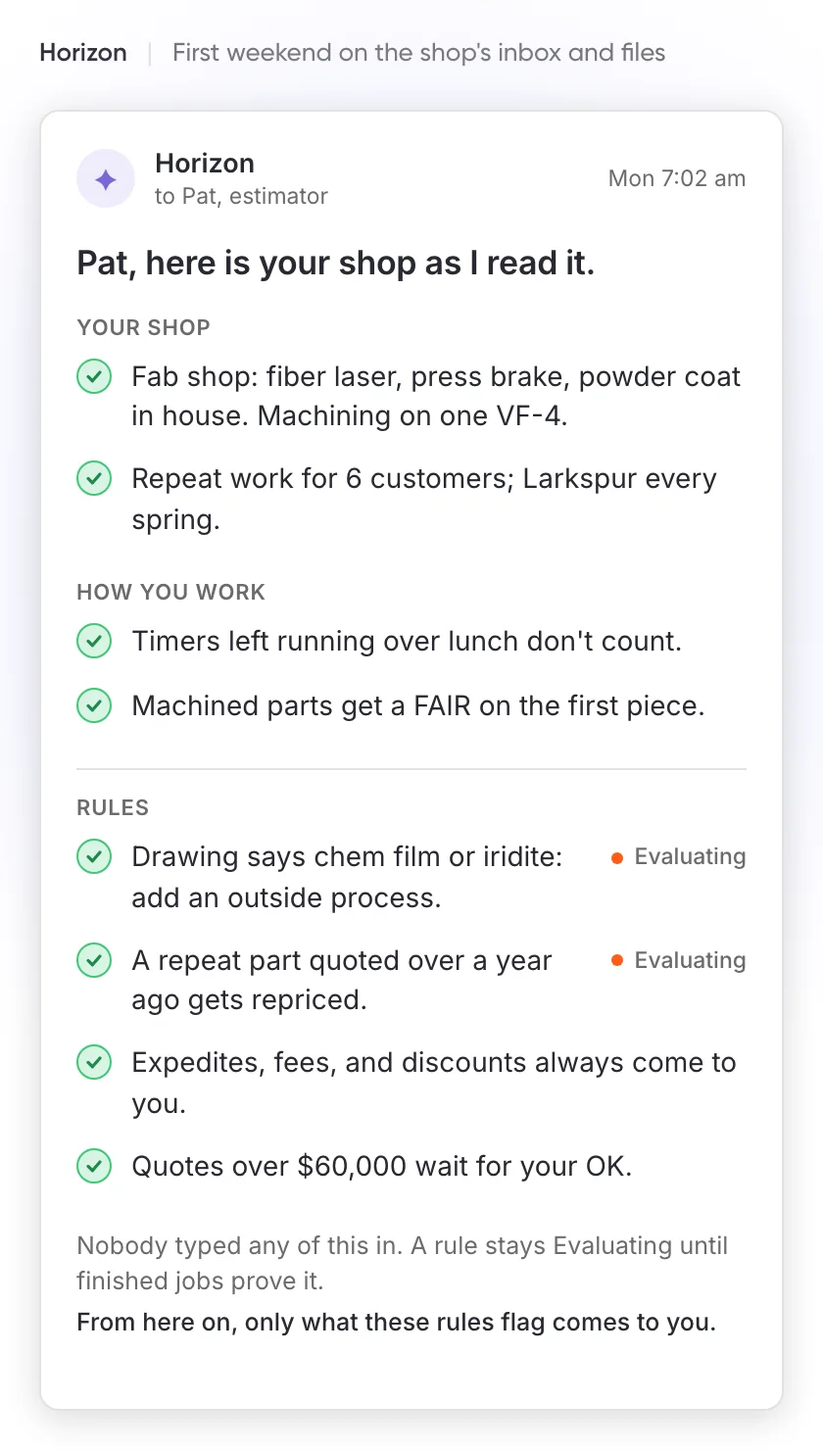
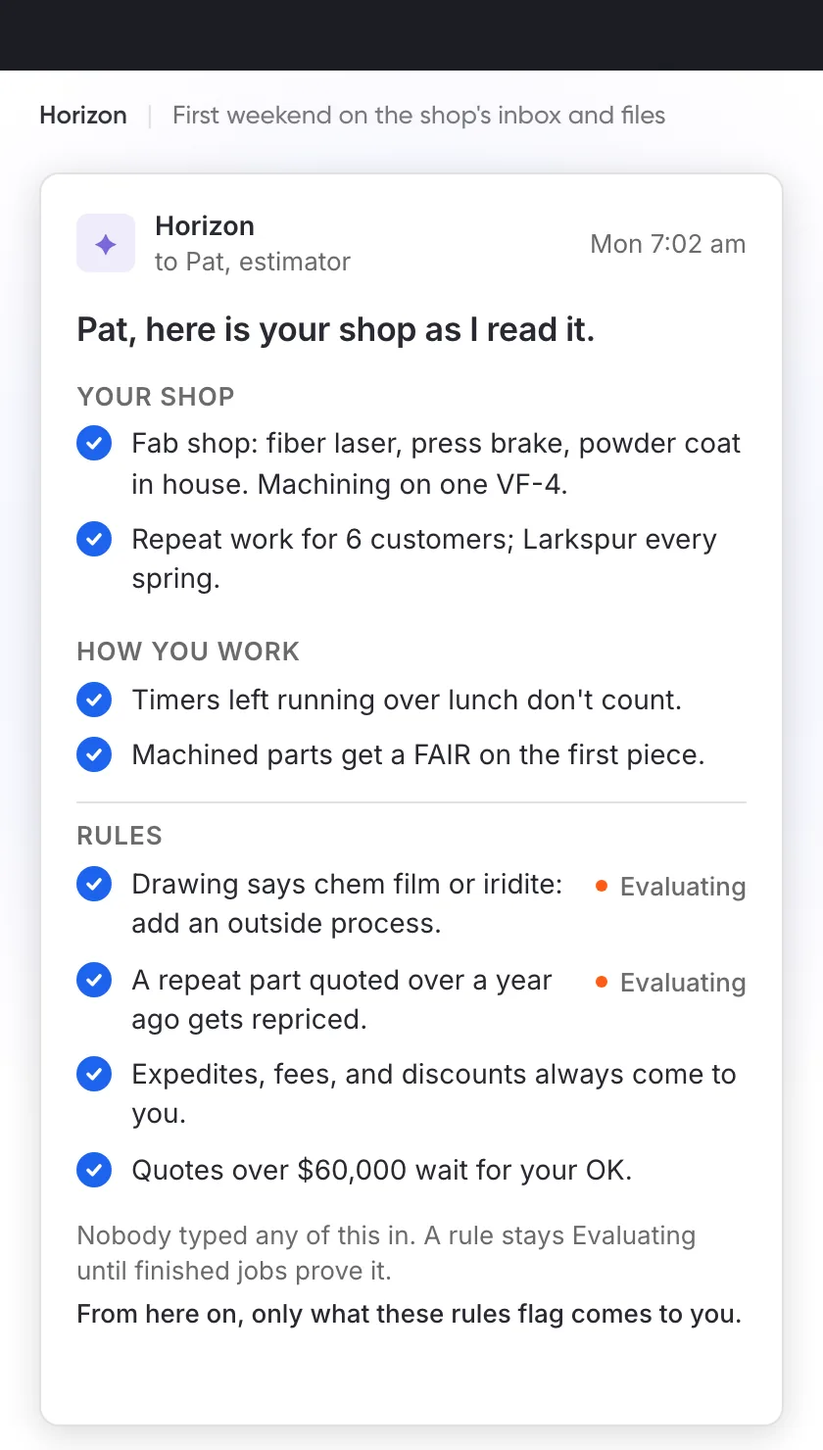
horizon loops: design-director pass (Nov 10)
- hero: Outlook beat about 1.3 s, 300 ms crossfade into Horizon, the email card flies to the toast slot (bottom right), timeline 3.2 s shorter (loop 37.8 s)
- all three: avatars are 6 px rounded squares (ink grey, white initials); phone type floor of 13 px (15 px stage-px on frames under 420 px)
- overnight: same dark title bar as the hero and thread windows; checks are filled interaction-blue circles with a white check; posters re-rendered

diff --git a/horizon/hero-email-lands/index.html b/horizon/hero-email-lands/index.html
@@ -10,6 +10,7 @@
         Horizon's post with the drafted email "Quote 2207: LA-400 lift arm parts", Quote-2207.pdf, Send (blue) + Not Now.
         Stage header "Quote · $59,241.00 · Quote 2207 · not sent", header pill "Ready". Hold 3s.
    3.0  reset: Horizon drops back; Outlook (quotes@haldenmetal.com) comes forward with this morning's mail. Nobody is in it.
+        (Nov 10: the Outlook beat runs about 1.3 s; windows crossfade in 300 ms; the email card flies to the toast slot, bottom right.)
    4.0  Tessa Brandvold's email lands at the top of the Outlook list: "Request for quote - LA-400 lift arm parts", 8:12 AM,
         attachments (26-1187_parts.xlsx, LI-2140_REV-B.pdf and drawings).
    4.8  Horizon reads it: a sweep crosses the row twice and the category tag lands as "Horizon · reading" (pulsing dot).
@@ -73,7 +74,7 @@
 .hz-hero-email-lands .h-win { position: absolute; left: 0; top: 0; width: 1200px; height: 750px; background: #131418;
      overflow: hidden;
   display: flex; flex-direction: column; z-index: 2; transform-origin: 50% 60%;
-  transition: opacity .6s cubic-bezier(.2,.7,.2,1), transform .7s cubic-bezier(.2,.7,.2,1); }
+  transition: opacity .3s cubic-bezier(.2,.7,.2,1), transform .3s cubic-bezier(.2,.7,.2,1); }
 .hz-hero-email-lands .h-win.is-back { opacity: 0; transform: translateY(22px) scale(.965); z-index: 1; }
 .hz-hero-email-lands .h-title { flex: 0 0 36px; position: relative; display: flex; align-items: center; justify-content: center;
   background: #1b1d23; border-bottom: 1px solid #2b2d33; font-size: 12.5px; color: #a9abae; font-weight: 400; }
@@ -86,7 +87,7 @@
   border: 1px solid #d6d6d6;   overflow: hidden;
   display: flex; flex-direction: column; z-index: 3; opacity: 0; transform: translateY(16px) scale(.97); transform-origin: 50% 50%;
   font-family: 'Segoe UI', 'Inter', -apple-system, BlinkMacSystemFont, sans-serif; color: #242424;
-  transition: opacity .6s cubic-bezier(.2,.7,.2,1), transform .75s cubic-bezier(.2,.7,.2,1); }
+  transition: opacity .3s cubic-bezier(.2,.7,.2,1), transform .3s cubic-bezier(.2,.7,.2,1); }
 .hz-hero-email-lands .o-win.is-on { opacity: 1; transform: none; }
 .hz-hero-email-lands .o-win.is-away { opacity: 0; transform: translate(-90px, 70px) scale(.86); z-index: 1; }
 .hz-hero-email-lands .o-top { flex: 0 0 48px; display: flex; align-items: center; gap: 14px; padding: 0 16px; background: #0f6cbd; color: #fff; }
@@ -256,9 +257,9 @@
 .hz-hero-email-lands .hzk-side h2 { margin: 0 0 4px; font-size: 19px; font-weight: 500; color: var(--fg-strong); }
 .hz-hero-email-lands .hzk-side .day { font-size: 14px; font-weight: 600; color: var(--fg); margin-top: 8px; }
 .hz-hero-email-lands .hzk-act { display: grid; grid-template-columns: 28px minmax(0,1fr) auto; gap: 10px; align-items: center; }
-.hz-hero-email-lands .hzk-act .av { width: 28px; height: 28px; border-radius: 50%; display: grid; place-items: center; font-size: 11px; font-weight: 600; background: #323335; color: #a9abae; }
+.hz-hero-email-lands .hzk-act .av { width: 28px; height: 28px; border-radius: 6px; display: grid; place-items: center; font-size: 11px; font-weight: 600; background: #2a2d36; color: #fff; }
 .hz-hero-email-lands .hzk-act .av.spark { background: var(--spark-bg); color: var(--spark-fg); font-size: 12px; }
-.hz-hero-email-lands .hzk-act .av.me { background: #3b3f1f; color: #c7c98a; }
+.hz-hero-email-lands .hzk-act .av.me { background: #2a2d36; color: #fff; }
 .hz-hero-email-lands .hzk-act b { display: block; font-size: 14px; font-weight: 500; color: var(--fg); }
 .hz-hero-email-lands .hzk-act span { display: block; font-size: 12.5px; color: var(--mute); }
 .hz-hero-email-lands .hzk-act small { font-size: 12px; color: var(--mute3); white-space: nowrap; }
@@ -282,7 +283,7 @@
 .hz-hero-email-lands .hzk-detail span { color: var(--mute); }
 .hz-hero-email-lands .hzk-detail b { font-weight: 500; color: var(--fg); text-align: right; white-space: nowrap; overflow: hidden; text-overflow: ellipsis; }
 .hz-hero-email-lands .hzk-run { display: grid; grid-template-columns: 28px minmax(0,1fr); gap: 10px; }
-.hz-hero-email-lands .hzk-run .av { width: 28px; height: 28px; border-radius: 50%; display: grid; place-items: center; font-size: 12px; background: var(--spark-bg); color: var(--spark-fg); }
+.hz-hero-email-lands .hzk-run .av { width: 28px; height: 28px; border-radius: 6px; display: grid; place-items: center; font-size: 12px; background: var(--spark-bg); color: var(--spark-fg); }
 .hz-hero-email-lands .hzk-run .av.is-live { animation: hzk-pulse 1.2s ease-in-out infinite; }
 .hz-hero-email-lands .hzk-run .tick { font-size: 14px; color: var(--fg); min-height: 20px; }
 .hz-hero-email-lands .hzk-run .tick small { display: block; font-size: 11.5px; color: var(--mute3); margin-top: 2px; }
@@ -290,7 +291,7 @@
 .hz-hero-email-lands .hzk-run .fold small { display: block; font-size: 12px; font-weight: 300; color: var(--mute); margin-top: 2px; }
 .hz-hero-email-lands .hzk-run .fold small a { color: var(--link); }
 .hz-hero-email-lands .hzk-post { display: grid; grid-template-columns: 28px minmax(0,1fr); gap: 10px; }
-.hz-hero-email-lands .hzk-post .av { width: 28px; height: 28px; border-radius: 50%; display: grid; place-items: center; font-size: 12px; background: var(--spark-bg); color: var(--spark-fg); }
+.hz-hero-email-lands .hzk-post .av { width: 28px; height: 28px; border-radius: 6px; display: grid; place-items: center; font-size: 12px; background: var(--spark-bg); color: var(--spark-fg); }
 .hz-hero-email-lands .hzk-post .box { border: 1px solid var(--line2); border-radius: 8px; background: var(--card); padding: 12px 14px; display: flex; flex-direction: column; gap: 8px; }
 .hz-hero-email-lands .hzk-post .box .hd { display: flex; align-items: baseline; gap: 8px; font-size: 12.5px; color: var(--mute2); }
 .hz-hero-email-lands .hzk-post .box .hd b { font-size: 14px; font-weight: 500; color: var(--fg-strong); }
@@ -301,7 +302,7 @@
 .hz-hero-email-lands .hzk-btn.primary { background: var(--send); border-color: var(--send); color: #fff; }
 .hz-hero-email-lands .hzk-thread { display: flex; flex-direction: column; gap: 14px; }
 .hz-hero-email-lands .hzk-mail { display: grid; grid-template-columns: 28px minmax(0,1fr); gap: 10px; }
-.hz-hero-email-lands .hzk-mail .av { width: 28px; height: 28px; border-radius: 50%; display: grid; place-items: center; font-size: 11px; font-weight: 600; background: #323335; color: #a9abae; }
+.hz-hero-email-lands .hzk-mail .av { width: 28px; height: 28px; border-radius: 6px; display: grid; place-items: center; font-size: 11px; font-weight: 600; background: #2a2d36; color: #fff; }
 .hz-hero-email-lands .hzk-mail .hd { display: flex; gap: 8px; align-items: baseline; font-size: 12.5px; color: var(--mute2); }
 .hz-hero-email-lands .hzk-mail .hd b { color: var(--fg-strong); font-weight: 500; font-size: 13.5px; }
 .hz-hero-email-lands .hzk-mail .hd small { margin-left: auto; font-size: 11.5px; color: var(--mute3); white-space: nowrap; }
@@ -359,7 +360,7 @@
 .hz-hero-email-lands .hz-sect { padding: 4px 16px 12px; display: flex; flex-direction: column; gap: 10px; border-top: 1px solid var(--line); margin-top: 4px; }
 .hz-hero-email-lands .hz-sect h4 { margin: 10px 0 0; font-size: 12px; font-weight: 500; color: var(--mute2); }
 .hz-hero-email-lands .hz-contact { display: grid; grid-template-columns: 28px minmax(0,1fr); gap: 10px; align-items: center; }
-.hz-hero-email-lands .hz-contact .av { width: 28px; height: 28px; border-radius: 50%; display: grid; place-items: center; font-size: 11px; font-weight: 600; background: #2b3a3b; color: #7fc6cb; }
+.hz-hero-email-lands .hz-contact .av { width: 28px; height: 28px; border-radius: 6px; display: grid; place-items: center; font-size: 11px; font-weight: 600; background: #2a2d36; color: #fff; }
 .hz-hero-email-lands .hz-contact b { display: block; font-size: 13.5px; font-weight: 500; color: var(--fg); }
 .hz-hero-email-lands .hz-contact span { display: block; font-size: 12px; color: var(--mute); }
 /* thread viewport: only the content scrolls, via transform */
@@ -478,6 +479,18 @@
 .hz-hero-email-lands.is-phone .hz-phead b { font-size: 14px; white-space: nowrap; overflow: hidden; text-overflow: ellipsis; min-width: 0; }
 .hz-hero-email-lands.is-phone .hz-phead .hzk-pill { margin-left: auto; }
 .hz-hero-email-lands.is-phone .hz-tin { padding: 14px 14px 16px; }
+
+/* phone type floor (Nov 10): nothing under 13px; on frames narrower than 420px the stage renders at about .81, so the floor is 15px stage-px */
+.hz-hero-email-lands.is-phone .o-navh, .hz-hero-email-lands.is-phone .o-navi b, .hz-hero-email-lands.is-phone .o-day, .hz-hero-email-lands.is-phone .o-fly .o-fly-f span, .hz-hero-email-lands.is-phone .hz-toast, .hz-hero-email-lands.is-phone .hz-toast small,
+.hz-hero-email-lands.is-phone .hzk-app .hzk-rail-item, .hz-hero-email-lands.is-phone .hzk-nav .usd, .hz-hero-email-lands.is-phone .hzk-pill, .hz-hero-email-lands.is-phone .hzk-tag, .hz-hero-email-lands.is-phone .hzk-act .av, .hz-hero-email-lands.is-phone .hzk-act span, .hz-hero-email-lands.is-phone .hzk-act small,
+.hz-hero-email-lands.is-phone .hzk-tiles span, .hz-hero-email-lands.is-phone .hzk-stagehead .k a, .hz-hero-email-lands.is-phone .hzk-stagehead .sub, .hz-hero-email-lands.is-phone .hzk-run .tick small, .hz-hero-email-lands.is-phone .hzk-run .fold small,
+.hz-hero-email-lands.is-phone .hzk-post .box .hd, .hz-hero-email-lands.is-phone .hzk-post .box .hd small, .hz-hero-email-lands.is-phone .hzk-mail .av, .hz-hero-email-lands.is-phone .hzk-mail .hd, .hz-hero-email-lands.is-phone .hzk-mail .hd small, .hz-hero-email-lands.is-phone .hzk-mail .att small,
+.hz-hero-email-lands.is-phone .hzk-table .th small, .hz-hero-email-lands.is-phone .hzk-table .tr.head, .hz-hero-email-lands.is-phone .hz-contact .av, .hz-hero-email-lands.is-phone .hz-contact span, .hz-hero-email-lands.is-phone .hz-day, .hz-hero-email-lands.is-phone .hz-match .steps span, .hz-hero-email-lands.is-phone .h-title, .hz-hero-email-lands.is-phone .o-row { font-size: 13px; }
+.hz-hero-email-lands.is-phone.is-narrow .o-navh, .hz-hero-email-lands.is-phone.is-narrow .o-navi b, .hz-hero-email-lands.is-phone.is-narrow .o-day, .hz-hero-email-lands.is-phone.is-narrow .o-fly .o-fly-f span, .hz-hero-email-lands.is-phone.is-narrow .hz-toast, .hz-hero-email-lands.is-phone.is-narrow .hz-toast small,
+.hz-hero-email-lands.is-phone.is-narrow .hzk-app .hzk-rail-item, .hz-hero-email-lands.is-phone.is-narrow .hzk-nav .usd, .hz-hero-email-lands.is-phone.is-narrow .hzk-pill, .hz-hero-email-lands.is-phone.is-narrow .hzk-tag, .hz-hero-email-lands.is-phone.is-narrow .hzk-act .av, .hz-hero-email-lands.is-phone.is-narrow .hzk-act span, .hz-hero-email-lands.is-phone.is-narrow .hzk-act small,
+.hz-hero-email-lands.is-phone.is-narrow .hzk-tiles span, .hz-hero-email-lands.is-phone.is-narrow .hzk-stagehead .k a, .hz-hero-email-lands.is-phone.is-narrow .hzk-stagehead .sub, .hz-hero-email-lands.is-phone.is-narrow .hzk-run .tick small, .hz-hero-email-lands.is-phone.is-narrow .hzk-run .fold small,
+.hz-hero-email-lands.is-phone.is-narrow .hzk-post .box .hd, .hz-hero-email-lands.is-phone.is-narrow .hzk-post .box .hd small, .hz-hero-email-lands.is-phone.is-narrow .hzk-mail .av, .hz-hero-email-lands.is-phone.is-narrow .hzk-mail .hd, .hz-hero-email-lands.is-phone.is-narrow .hzk-mail .hd small, .hz-hero-email-lands.is-phone.is-narrow .hzk-mail .att small,
+.hz-hero-email-lands.is-phone.is-narrow .hzk-table .th small, .hz-hero-email-lands.is-phone.is-narrow .hzk-table .tr.head, .hz-hero-email-lands.is-phone.is-narrow .hz-contact .av, .hz-hero-email-lands.is-phone.is-narrow .hz-contact span, .hz-hero-email-lands.is-phone.is-narrow .hz-day, .hz-hero-email-lands.is-phone.is-narrow .hz-match .steps span, .hz-hero-email-lands.is-phone.is-narrow .h-title, .hz-hero-email-lands.is-phone.is-narrow .o-row { font-size: 15px; }
 </style>
 
 <div class="hz-hero-email-lands">
@@ -707,7 +720,7 @@ Pat</div>
 <script>
 (function () {
   'use strict';
-  var LOOP_END = 41.0;       // seconds; loop wraps to t=0 (resolved) here
+  var LOOP_END = 37.8;       // seconds; loop wraps to t=0 (resolved) here
   var TYPE_MS = 25;          // ms per character (the drafted email body, once per loop)
 
   function init(root) {
@@ -718,7 +731,7 @@ Pat</div>
     function fit() {
       var w = root.clientWidth || 1200;
       var phone = w < 600 || /[?&]phone=1/.test(location.search);
-      root.classList.toggle('is-phone', phone);
+      root.classList.toggle('is-phone', phone); root.classList.toggle('is-narrow', phone && (root.getBoundingClientRect().width || 420) < 420);
       var SW = phone ? 420 : 1200, SH = phone ? 720 : 750;
       var s = w / SW;
       root.style.setProperty('--s', String(s));
@@ -741,7 +754,8 @@ Pat</div>
     function flyFrom() {
       var phone = root.classList.contains('is-phone'); var r = onew.getBoundingClientRect(), st = stageEl.getBoundingClientRect(), k = st.width / (phone ? 420 : 1200) || 1;
       fly.style.setProperty('--fx', ((r.left - st.left) / k + 10) + 'px'); fly.style.setProperty('--fy', ((r.top - st.top) / k + 4) + 'px');
-      fly.style.setProperty('--tx', phone ? '18px' : '92px'); fly.style.setProperty('--ty', phone ? '60px' : '128px');
+      var SW = phone ? 420 : 1200, SH = phone ? 720 : 750, fw = fly.offsetWidth || 332, fh = fly.offsetHeight || 80;
+      fly.style.setProperty('--tx', (SW - 18 - fw + fw * .08) + 'px'); fly.style.setProperty('--ty', (SH - 18 - fh + fh * .08) + 'px');
       fly.style.transition = 'none'; fly.classList.remove('is-go', 'is-up'); reflow(fly); fly.style.transition = ''; fly.classList.add('is-up');
     }
     var ppill = $('[data-ppill]'), sh = $('[data-sh]'), stage = $('[data-stage]'), fig = $('[data-fig]'), sub = $('[data-sub]'), seg2 = $('[data-seg2]');
@@ -834,39 +848,39 @@ Pat</div>
         tin.style.transform = 'translateY(0)';
         hwin.classList.add('is-back'); owin.classList.remove('is-away'); owin.classList.add('is-on');
       } },
-      { t: 4.0, fn: function () { onew.classList.add('is-in'); } },                          // Tessa's email lands in Outlook
-      { t: 4.35, fn: function () { onew.classList.add('is-scan'); ocat.classList.add('is-on'); } },   // Horizon is reading it: sweep + "Horizon · reading"
-      { t: 6.5, fn: function () { ocat.classList.add('is-read'); } },                        // "Horizon · read"
-      { t: 6.9, fn: function () { if (!instant) flyFrom(); } },                              // the email lifts out of Outlook
-      { t: 7.2, fn: function () { if (!instant) fly.classList.add('is-go'); } },             // and flies into Horizon
-      { t: 7.5, fn: function () {                                                             // Horizon comes forward
+      { t: 3.25, fn: function () { onew.classList.add('is-in'); } },                          // Tessa's email lands in Outlook
+      { t: 3.45, fn: function () { onew.classList.add('is-scan'); ocat.classList.add('is-on'); } },   // Horizon is reading it: sweep + "Horizon · reading"
+      { t: 3.95, fn: function () { ocat.classList.add('is-read'); } },                        // "Horizon · read"
+      { t: 4.0, fn: function () { if (!instant) flyFrom(); } },                              // the email lifts out of Outlook
+      { t: 4.15, fn: function () { if (!instant) fly.classList.add('is-go'); } },             // and flies into Horizon
+      { t: 4.3, fn: function () {                                                             // Horizon comes forward
         owin.classList.remove('is-on'); owin.classList.add('is-away'); hwin.classList.remove('is-back');
       } },
-      { t: 7.9, fn: function () { toast.classList.add('is-on'); } },                         // Horizon confirms the pickup
-      { t: 10.5, fn: function () { toast.classList.remove('is-on'); } },
-      { t: 8.3, fn: function () { newrow.classList.add('is-on'); if (!instant) newrow.classList.add('hzk-in'); } },  // new list row
-      { t: 10.9, fn: function () { home.classList.remove('is-on'); proj.classList.add('is-on'); } },  // the project opens
-      { t: 11.7, fn: function () { tick('Reading the RFQ and its attachments', 'Horizon · 8:12 AM'); } },
-      { t: 13.7, fn: function () {                                                            // part match: the part from the drawing draws in
+      { t: 5.2, fn: function () { toast.classList.add('is-on'); } },                         // Horizon confirms the pickup
+      { t: 7.3, fn: function () { toast.classList.remove('is-on'); } },
+      { t: 5.1, fn: function () { newrow.classList.add('is-on'); if (!instant) newrow.classList.add('hzk-in'); } },  // new list row
+      { t: 7.7, fn: function () { home.classList.remove('is-on'); proj.classList.add('is-on'); } },  // the project opens
+      { t: 8.5, fn: function () { tick('Reading the RFQ and its attachments', 'Horizon · 8:12 AM'); } },
+      { t: 10.5, fn: function () {                                                            // part match: the part from the drawing draws in
         tick('Matching parts · LI-2140 Lift Arm Pivot Lug', 'Horizon · 8:13 AM');
         match.classList.remove('is-out'); mstate(0, 'Reading LI-2140_REV-B.pdf', 'LI-1988'); show(match);
       } },
-      { t: 14.9, fn: function () { mstate(1, 'Read: 0.50 in plate, 2 bores, 1 slot'); } },    // what it read off the drawing
-      { t: 15.8, fn: function () {                                                            // searching past jobs
+      { t: 11.7, fn: function () { mstate(1, 'Read: 0.50 in plate, 2 bores, 1 slot'); } },    // what it read off the drawing
+      { t: 12.6, fn: function () {                                                            // searching past jobs
         mstate(2, 'Searching 1,847 past jobs', 'LI-1988');
         later(400, function () { mname.textContent = 'LI-2031'; }); later(800, function () { mname.textContent = 'LI-2077'; });
       } },
-      { t: 17.0, fn: function () { mstate(3, 'Closest match: LI-2096, ran Mar 2026', 'LI-2096 · Pivot Lug'); } },
-      { t: 18.3, fn: function () { mstate(4, 'Routing suggested from LI-2096'); } },          // routing steps rise in
-      { t: 20.2, fn: function () { tick('Estimating · LI-2123, LI-2140, LI-2155, LI-2162', 'Horizon · 8:14 AM'); } },
-      { t: 22.2, fn: function () { tick('Checking the schedule', 'Horizon · 8:15 AM'); } },
-      { t: 24.2, fn: function () { match.classList.add('is-out'); later(200, function () { match.classList.remove('is-on', 'hzk-in'); }); fold(); } },
-      { t: 26.8, fn: function () { show(table); } },
-      { t: 29.6, fn: function () { show(alert); } },
-      { t: 32.2, fn: function () { show(post); typeInto(body); scrollThread(); } },
-      { t: 36.8, fn: function () { show(pfoot); } },
-      { t: 37.4, fn: function () { setStage('Quote', '$59,241.00', '<a>Quote 2207</a> · not sent', true); } },
-      { t: 38.0, fn: function () { ppill.textContent = 'Ready'; ppill.className = 'hzk-pill ready'; } }
+      { t: 13.8, fn: function () { mstate(3, 'Closest match: LI-2096, ran Mar 2026', 'LI-2096 · Pivot Lug'); } },
+      { t: 15.1, fn: function () { mstate(4, 'Routing suggested from LI-2096'); } },          // routing steps rise in
+      { t: 17.0, fn: function () { tick('Estimating · LI-2123, LI-2140, LI-2155, LI-2162', 'Horizon · 8:14 AM'); } },
+      { t: 19.0, fn: function () { tick('Checking the schedule', 'Horizon · 8:15 AM'); } },
+      { t: 21.0, fn: function () { match.classList.add('is-out'); later(200, function () { match.classList.remove('is-on', 'hzk-in'); }); fold(); } },
+      { t: 23.6, fn: function () { show(table); } },
+      { t: 26.4, fn: function () { show(alert); } },
+      { t: 29.0, fn: function () { show(post); typeInto(body); scrollThread(); } },
+      { t: 33.6, fn: function () { show(pfoot); } },
+      { t: 34.2, fn: function () { setStage('Quote', '$59,241.00', '<a>Quote 2207</a> · not sent', true); } },
+      { t: 34.8, fn: function () { ppill.textContent = 'Ready'; ppill.className = 'hzk-pill ready'; } }
     ];
 
     // ----- runner -----

diff --git a/horizon/overnight-reveal/index.html b/horizon/overnight-reveal/index.html
@@ -66,19 +66,19 @@
 }
 .hz-overnight-reveal *,.hz-overnight-reveal *::before,.hz-overnight-reveal *::after{ box-sizing:border-box; }
 .hz-overnight-reveal-frame{ position:relative; width:100%; aspect-ratio:1200/750; overflow:hidden; background:#fff; }
-.hz-overnight-reveal-stage{ position:absolute; left:0; top:0; width:1200px; height:750px; overflow:hidden; background:#fff;
+.hz-overnight-reveal-stage{ position:absolute; left:0; top:0; width:1200px; height:750px; overflow:hidden; background:#fff; border-top:36px solid #1b1d23;
   transform-origin:0 0; transform:scale(var(--s)); pointer-events:none; user-select:none; }
 .hz-overnight-reveal.is-noanim *,.hz-overnight-reveal.is-noanim *::before,.hz-overnight-reveal.is-noanim *::after{ transition:none !important; animation:none !important; }
 
 /* title row, on the canvas, outside any product window: Gilroy. The lime dot is the one marketing accent. */
-.hz-overnight-reveal-title{ position:absolute; left:40px; top:40px; display:flex; align-items:center; gap:10px; font-size:14px;
+.hz-overnight-reveal-title{ position:absolute; left:40px; top:24px; display:flex; align-items:center; gap:10px; font-size:14px;
   font-family:'Gilroy','Inter',Arial,sans-serif; font-weight:500; }
 .hz-overnight-reveal-title b{ font-weight:600; }
 .hz-overnight-reveal-title span{ color:var(--muted); }
 .hz-overnight-reveal-title i{ font-style:normal; color:var(--line); }
 
 /* ---- left: reading panel (product content: Inter) ---- */
-.hz-overnight-reveal-left{ position:absolute; left:40px; top:90px; width:520px; height:600px; border-radius:10px; background:var(--pane);
+.hz-overnight-reveal-left{ position:absolute; left:40px; top:72px; width:520px; height:600px; border-radius:10px; background:var(--pane);
   border:1px solid var(--line); overflow:hidden; }
 .hz-overnight-reveal-clock{ position:absolute; left:24px; right:24px; top:24px; height:58px; transition:opacity .4s var(--ease); }
 .hz-overnight-reveal-clock .hz-overnight-reveal-cl{ position:absolute; top:46px; font-size:12px; font-weight:600; color:var(--muted); transition:color .4s var(--ease); }
@@ -145,10 +145,10 @@
 .hz-overnight-reveal-dbox span{ font-size:12.5px; color:#c9c9d1; font-variant-numeric:tabular-nums; }
 
 /* ---- right: the result card (product content: Inter) ---- */
-.hz-overnight-reveal-right{ position:absolute; left:600px; top:90px; width:560px; height:600px; border-radius:10px; background:#fff; border:1px solid var(--line);
+.hz-overnight-reveal-right{ position:absolute; left:600px; top:72px; width:560px; height:600px; border-radius:10px; background:#fff; border:1px solid var(--line);
   box-shadow:0 4px 18px rgba(0,0,0,.15); padding:24px; }
 .hz-overnight-reveal-rhead{ display:flex; align-items:center; gap:10px; }
-.hz-overnight-reveal-av{ width:30px; height:30px; border-radius:50%; background:var(--spark-bg); color:var(--spark); display:grid; place-items:center; font-size:15px; line-height:1; }
+.hz-overnight-reveal-av{ width:30px; height:30px; border-radius:6px; background:var(--spark-bg); color:var(--spark); display:grid; place-items:center; font-size:15px; line-height:1; }
 .hz-overnight-reveal.is-reading .hz-overnight-reveal-av{ animation:hz-overnight-reveal-pulse 1.2s ease-in-out infinite; }
 .hz-overnight-reveal.is-paused .hz-overnight-reveal-av{ animation-play-state:paused; }
 .hz-overnight-reveal-rhead b{ display:block; font-size:13.5px; font-weight:600; }
@@ -162,7 +162,7 @@
 .hz-overnight-reveal-eb{ display:block; margin:14px 0 2px; font-size:11px; font-weight:600; letter-spacing:.04em; text-transform:uppercase; color:var(--muted); line-height:1.3; }
 .hz-overnight-reveal-line{ display:flex; gap:10px; align-items:flex-start; padding:6px 0; font-size:14px; line-height:1.45; min-height:32px; }
 .hz-overnight-reveal-line > div{ flex:1 1 auto; }
-.hz-overnight-reveal-line i{ flex:0 0 auto; width:18px; height:18px; margin-top:1px; border-radius:50%; background:var(--ok-bg); border:1px solid var(--ok); display:grid; place-items:center; }
+.hz-overnight-reveal-line i{ flex:0 0 auto; width:18px; height:18px; margin-top:1px; border-radius:50%; background:#1d63ed; border:0; display:grid; place-items:center; }
 .hz-overnight-reveal-line i svg{ width:10px; height:10px; }
 /* the real "Evaluating" flag on a learned rule: dot + text, no chip */
 .hz-overnight-reveal-flag{ flex:0 0 auto; display:inline-flex; align-items:center; gap:6px; margin-top:3px; margin-left:4px; font-size:11.5px; font-weight:500; color:var(--muted); white-space:nowrap; line-height:1.3; }
@@ -190,18 +190,38 @@
 /* ---------- phone: a 420x700 stage showing the shop letter. The reading panel is hidden. ---------- */
 .hz-overnight-reveal.is-phone .hz-overnight-reveal-frame { aspect-ratio: 420/740; }
 .hz-overnight-reveal.is-phone .hz-overnight-reveal-stage { width: 420px; height: 740px; }
-.hz-overnight-reveal.is-phone .hz-overnight-reveal-title { left: 20px; top: 20px; font-size: 13px; }
-.hz-overnight-reveal.is-phone .hz-overnight-reveal-left { left: 20px; top: 56px; width: 380px; height: 664px; transition: opacity .5s var(--ease); }
+.hz-overnight-reveal.is-phone .hz-overnight-reveal-title { left: 20px; top: 16px; font-size: 13px; }
+.hz-overnight-reveal.is-phone .hz-overnight-reveal-left { left: 20px; top: 52px; width: 380px; height: 640px; transition: opacity .5s var(--ease); }
 .hz-overnight-reveal.is-phone .hz-overnight-reveal-right { opacity: 0; transition: opacity .6s var(--ease); }
 .hz-overnight-reveal.is-phone:has(.hz-overnight-reveal-lines .is-on) .hz-overnight-reveal-left { opacity: 0; }
 .hz-overnight-reveal.is-phone:has(.hz-overnight-reveal-lines .is-on) .hz-overnight-reveal-right { opacity: 1; }
 .hz-overnight-reveal.is-phone .hz-overnight-reveal-glow { left: -120px; top: -60px; width: 660px; height: 660px; }
-.hz-overnight-reveal.is-phone .hz-overnight-reveal-right { left: 20px; top: 56px; width: 380px; height: 664px; padding: 18px; }
+.hz-overnight-reveal.is-phone .hz-overnight-reveal-right { left: 20px; top: 52px; width: 380px; height: 640px; padding: 18px; }
+
+/* the same dark chrome as the hero and thread windows (Nov 10): a 36px title bar with traffic lights; the light letter is the content */
+.hz-overnight-reveal-os{ position:absolute; left:0; top:-36px; width:100%; height:36px; background:#1b1d23; border-bottom:1px solid #2b2d33; display:flex; align-items:center; justify-content:center; font-family:Inter,system-ui,sans-serif; font-size:12.5px; color:#a9abae; }
+.hz-overnight-reveal-os i{ position:absolute; left:14px; top:12.5px; width:11px; height:11px; border-radius:50%; background:#4b4d53; }
+.hz-overnight-reveal-os i + i{ left:31px; } .hz-overnight-reveal-os i + i + i{ left:48px; }
+.hz-overnight-reveal.is-phone .hz-overnight-reveal-os{ font-size:13px; }
+.hz-overnight-reveal.is-phone.is-narrow .hz-overnight-reveal-os{ font-size:15px; }
+
+.hz-overnight-reveal-rr i{ width:16px; height:16px; border-radius:50%; background:#1d63ed; display:grid; place-items:center; flex:0 0 auto; margin-left:auto; } .hz-overnight-reveal-rr i svg{ width:9px; height:9px; }
+
+/* phone type floor (Nov 10): nothing under 13px; 15px stage-px on frames narrower than 420px */
+.hz-overnight-reveal.is-phone .hz-overnight-reveal-cl, .hz-overnight-reveal.is-phone .hz-overnight-reveal-now, .hz-overnight-reveal.is-phone .hz-overnight-reveal-stat small, .hz-overnight-reveal.is-phone .hz-overnight-reveal-dbox span, .hz-overnight-reveal.is-phone .hz-overnight-reveal-rhead span, .hz-overnight-reveal.is-phone .hz-overnight-reveal-rhead .hz-overnight-reveal-when, .hz-overnight-reveal.is-phone .hz-overnight-reveal-eb, .hz-overnight-reveal.is-phone .hz-overnight-reveal-flag, .hz-overnight-reveal.is-phone .hz-overnight-reveal-foot, .hz-overnight-reveal.is-phone .hz-overnight-reveal-fc, .hz-overnight-reveal.is-phone .hz-overnight-reveal-rr, .hz-overnight-reveal.is-phone .hz-overnight-reveal-title { font-size: 13px; }
+.hz-overnight-reveal.is-phone.is-narrow .hz-overnight-reveal-cl, .hz-overnight-reveal.is-phone.is-narrow .hz-overnight-reveal-now, .hz-overnight-reveal.is-phone.is-narrow .hz-overnight-reveal-stat small, .hz-overnight-reveal.is-phone.is-narrow .hz-overnight-reveal-dbox span, .hz-overnight-reveal.is-phone.is-narrow .hz-overnight-reveal-rhead span, .hz-overnight-reveal.is-phone.is-narrow .hz-overnight-reveal-rhead .hz-overnight-reveal-when, .hz-overnight-reveal.is-phone.is-narrow .hz-overnight-reveal-eb, .hz-overnight-reveal.is-phone.is-narrow .hz-overnight-reveal-flag, .hz-overnight-reveal.is-phone.is-narrow .hz-overnight-reveal-foot, .hz-overnight-reveal.is-phone.is-narrow .hz-overnight-reveal-fc, .hz-overnight-reveal.is-phone.is-narrow .hz-overnight-reveal-rr, .hz-overnight-reveal.is-phone.is-narrow .hz-overnight-reveal-title { font-size: 15px; }
+
+/* phone: tighter letter so the type floor still fits the 640px panel */
+.hz-overnight-reveal.is-phone .hz-overnight-reveal-line{ padding:4px 0; min-height:28px; }
+.hz-overnight-reveal.is-phone .hz-overnight-reveal-foot{ margin-top:10px; }
+.hz-overnight-reveal.is-phone .hz-overnight-reveal-rules{ margin-top:10px; padding-top:8px; }
+.hz-overnight-reveal.is-phone.is-narrow .hz-overnight-reveal-eb, .hz-overnight-reveal.is-phone.is-narrow .hz-overnight-reveal-foot, .hz-overnight-reveal.is-phone.is-narrow .hz-overnight-reveal-flag{ font-size:13px; }
 </style>
 
 <div class="hz-overnight-reveal">
   <div class="hz-overnight-reveal-frame">
     <div class="hz-overnight-reveal-stage">
+      <div class="hz-overnight-reveal-os"><i></i><i></i><i></i>Horizon</div>
 
       <div class="hz-overnight-reveal-title">
         <b>Horizon</b><i>|</i><span>First weekend on the shop's inbox and files</span>
@@ -307,7 +327,7 @@
     ['timer', 'Job timers', 'laser, brake, powder coat, VF-4'],
     ['quote', 'Old quotes', 'won and lost']
   ];
-  var CHECK = '<i><svg viewBox="0 0 10 10" fill="none"><path d="M2 5.2l2.2 2.2L8 3" stroke="#1f8a4c" stroke-width="1.6" stroke-linecap="round" stroke-linejoin="round"/></svg></i>';
+  var CHECK = '<i><svg viewBox="0 0 10 10" fill="none"><path d="M2 5.2l2.2 2.2L8 3" stroke="#fff" stroke-width="1.8" stroke-linecap="round" stroke-linejoin="round"/></svg></i>';
 
   function init(root){
     var $ = function(id){ return root.querySelector('#' + SLUG + '-' + id); };
@@ -335,7 +355,7 @@
     function fit(){
       var w = root.clientWidth || 1200;
       var phone = w < 600 || /[?&]phone=1/.test(location.search);
-      root.classList.toggle('is-phone', phone);
+      root.classList.toggle('is-phone', phone); root.classList.toggle('is-narrow', phone && (root.getBoundingClientRect().width || 420) < 420);
       var SW = phone ? 420 : 1200, SH = phone ? 740 : 750, s = w / SW;
       root.style.setProperty('--s', s.toFixed(5));
       if (!(window.CSS && CSS.supports && CSS.supports('aspect-ratio', '1 / 1'))) frame.style.height = (SH * s) + 'px';

diff --git a/horizon/conversation-ribbon/index.html b/horizon/conversation-ribbon/index.html
@@ -114,12 +114,12 @@
 .hz-conversation-ribbon .hzk-detail b.warn { color: var(--warn); }
 .hz-conversation-ribbon .hzk-detail b a { color: var(--link); }
 .hz-conversation-ribbon .hzk-run { display: grid; grid-template-columns: 28px minmax(0,1fr); gap: 10px; }
-.hz-conversation-ribbon .hzk-run .av { width: 28px; height: 28px; border-radius: 50%; display: grid; place-items: center; font-size: 12px; background: var(--spark-bg); color: var(--spark-fg); }
+.hz-conversation-ribbon .hzk-run .av { width: 28px; height: 28px; border-radius: 6px; display: grid; place-items: center; font-size: 12px; background: var(--spark-bg); color: var(--spark-fg); }
 .hz-conversation-ribbon .hzk-run .fold { font-size: 14px; font-weight: 500; color: var(--fg); }
 .hz-conversation-ribbon .hzk-run .fold small { display: block; font-size: 12px; font-weight: 300; color: var(--mute); margin-top: 2px; }
 .hz-conversation-ribbon .hzk-run .fold small a { color: var(--link); }
 .hz-conversation-ribbon .hzk-post { display: grid; grid-template-columns: 28px minmax(0,1fr); gap: 10px; }
-.hz-conversation-ribbon .hzk-post .av { width: 28px; height: 28px; border-radius: 50%; display: grid; place-items: center; font-size: 12px; background: var(--spark-bg); color: var(--spark-fg); }
+.hz-conversation-ribbon .hzk-post .av { width: 28px; height: 28px; border-radius: 6px; display: grid; place-items: center; font-size: 12px; background: var(--spark-bg); color: var(--spark-fg); }
 .hz-conversation-ribbon .hzk-post .box { border: 1px solid var(--line2); border-radius: 8px; background: var(--card); padding: 12px 14px; display: flex; flex-direction: column; gap: 8px; }
 .hz-conversation-ribbon .hzk-post .box .hd { display: flex; align-items: baseline; gap: 8px; font-size: 12.5px; color: var(--mute2); }
 .hz-conversation-ribbon .hzk-post .box .hd b { font-size: 14px; font-weight: 500; color: var(--fg-strong); }
@@ -131,7 +131,7 @@
 .hz-conversation-ribbon .hzk-result { font-size: 13px; color: var(--good-fg); display: flex; align-items: center; gap: 8px; min-height: 28px; }
 .hz-conversation-ribbon .hzk-result small { font-size: 12px; color: var(--mute3); }
 .hz-conversation-ribbon .hzk-mail { display: grid; grid-template-columns: 28px minmax(0,1fr); gap: 10px; }
-.hz-conversation-ribbon .hzk-mail .av { width: 28px; height: 28px; border-radius: 50%; display: grid; place-items: center; font-size: 11px; font-weight: 600; background: #323335; color: #a9abae; }
+.hz-conversation-ribbon .hzk-mail .av { width: 28px; height: 28px; border-radius: 6px; display: grid; place-items: center; font-size: 11px; font-weight: 600; background: #2a2d36; color: #fff; }
 .hz-conversation-ribbon .hzk-mail .card { border: 1px solid var(--line2); border-radius: 8px; background: var(--card); padding: 12px 14px; }
 .hz-conversation-ribbon .hzk-mail .hd { display: flex; gap: 8px; align-items: center; font-size: 12.5px; color: var(--mute2); }
 .hz-conversation-ribbon .hzk-mail .hd b { color: var(--fg-strong); font-weight: 500; font-size: 13.5px; }
@@ -145,7 +145,7 @@
 .hz-conversation-ribbon .att i::before { content: ''; position: absolute; left: 5px; right: 5px; top: 4px; height: 3px; background: #2a2d33; border-radius: 1px; box-shadow: 0 5px 0 -1px #c9cac4, 0 10px 0 -1px #c9cac4, 0 15px 0 -1px #c9cac4; }
 .hz-conversation-ribbon .att small { font-weight: 400; color: var(--mute3); font-size: 11.5px; margin-left: 4px; }
 .hz-conversation-ribbon .hzk-step { display: grid; grid-template-columns: 28px minmax(0,1fr); gap: 10px; }
-.hz-conversation-ribbon .hzk-step .av { width: 28px; height: 28px; border-radius: 50%; display: grid; place-items: center; font-size: 12px; background: var(--spark-bg); color: var(--spark-fg); }
+.hz-conversation-ribbon .hzk-step .av { width: 28px; height: 28px; border-radius: 6px; display: grid; place-items: center; font-size: 12px; background: var(--spark-bg); color: var(--spark-fg); }
 .hz-conversation-ribbon .hzk-step .t { font-size: 13.5px; font-weight: 500; }
 .hz-conversation-ribbon .hzk-step .d { font-size: 13px; color: rgba(230,230,240,.75); }
 .hz-conversation-ribbon .hzk-step .m { display: flex; gap: 8px; align-items: center; flex-wrap: wrap; margin-top: 2px; font-size: 11.5px; color: rgba(230,230,240,.58); }
@@ -243,6 +243,10 @@
 .hz-conversation-ribbon.is-phone .cr-head h1 { font-size: 16px; white-space: normal; }
 .hz-conversation-ribbon.is-phone .cr-head .meta { display: none; }
 .hz-conversation-ribbon.is-phone .cr-head .right { display: none; }
+
+/* phone type floor (Nov 10): nothing under 13px; 15px stage-px on frames narrower than 420px (renders at about 13px) */
+.hz-conversation-ribbon.is-phone .hzk-rail-item, .hz-conversation-ribbon.is-phone .hzk-app .hzk-rail-item, .hz-conversation-ribbon.is-phone .hzk-pill, .hz-conversation-ribbon.is-phone .hzk-tag, .hz-conversation-ribbon.is-phone .hzk-stagehead .k a, .hz-conversation-ribbon.is-phone .hzk-stagehead .sub, .hz-conversation-ribbon.is-phone .hzk-detail, .hz-conversation-ribbon.is-phone .hzk-run .av, .hz-conversation-ribbon.is-phone .hzk-run .fold small, .hz-conversation-ribbon.is-phone .hzk-post .av, .hz-conversation-ribbon.is-phone .hzk-post .box .hd, .hz-conversation-ribbon.is-phone .hzk-post .box .hd small, .hz-conversation-ribbon.is-phone .hzk-btn, .hz-conversation-ribbon.is-phone .hzk-result small, .hz-conversation-ribbon.is-phone .hzk-mail .av, .hz-conversation-ribbon.is-phone .hzk-mail .hd, .hz-conversation-ribbon.is-phone .hzk-mail .hd small, .hz-conversation-ribbon.is-phone .hzk-mail .att, .hz-conversation-ribbon.is-phone .hzk-post .att, .hz-conversation-ribbon.is-phone .att small, .hz-conversation-ribbon.is-phone .hzk-step .av, .hz-conversation-ribbon.is-phone .hzk-step .m, .hz-conversation-ribbon.is-phone .hzk-table .th small, .hz-conversation-ribbon.is-phone .hzk-table .th .hzk-pill, .hz-conversation-ribbon.is-phone .hzk-table .tr, .hz-conversation-ribbon.is-phone .hzk-table .tr.head, .hz-conversation-ribbon.is-phone .hzk-table .tr .sub, .hz-conversation-ribbon.is-phone .hzk-table .foot, .hz-conversation-ribbon.is-phone .hzk-decision .hd .sub, .hz-conversation-ribbon.is-phone .hzk-decision .hd small, .hz-conversation-ribbon.is-phone .hzk-fact small, .hz-conversation-ribbon.is-phone .hzk-fact em, .hz-conversation-ribbon.is-phone .hzk-limit, .hz-conversation-ribbon.is-phone .cr-logo, .hz-conversation-ribbon.is-phone .cr-me, .hz-conversation-ribbon.is-phone .cr-sec .t small, .hz-conversation-ribbon.is-phone .cr-item .l1, .hz-conversation-ribbon.is-phone .cr-item .l2, .hz-conversation-ribbon.is-phone .cr-all, .hz-conversation-ribbon.is-phone .cr-day, .hz-conversation-ribbon.is-phone .cr-os { font-size: 13px; }
+.hz-conversation-ribbon.is-phone.is-narrow .hzk-rail-item, .hz-conversation-ribbon.is-phone.is-narrow .hzk-app .hzk-rail-item, .hz-conversation-ribbon.is-phone.is-narrow .hzk-pill, .hz-conversation-ribbon.is-phone.is-narrow .hzk-tag, .hz-conversation-ribbon.is-phone.is-narrow .hzk-stagehead .k a, .hz-conversation-ribbon.is-phone.is-narrow .hzk-stagehead .sub, .hz-conversation-ribbon.is-phone.is-narrow .hzk-detail, .hz-conversation-ribbon.is-phone.is-narrow .hzk-run .av, .hz-conversation-ribbon.is-phone.is-narrow .hzk-run .fold small, .hz-conversation-ribbon.is-phone.is-narrow .hzk-post .av, .hz-conversation-ribbon.is-phone.is-narrow .hzk-post .box .hd, .hz-conversation-ribbon.is-phone.is-narrow .hzk-post .box .hd small, .hz-conversation-ribbon.is-phone.is-narrow .hzk-btn, .hz-conversation-ribbon.is-phone.is-narrow .hzk-result small, .hz-conversation-ribbon.is-phone.is-narrow .hzk-mail .av, .hz-conversation-ribbon.is-phone.is-narrow .hzk-mail .hd, .hz-conversation-ribbon.is-phone.is-narrow .hzk-mail .hd small, .hz-conversation-ribbon.is-phone.is-narrow .hzk-mail .att, .hz-conversation-ribbon.is-phone.is-narrow .hzk-post .att, .hz-conversation-ribbon.is-phone.is-narrow .att small, .hz-conversation-ribbon.is-phone.is-narrow .hzk-step .av, .hz-conversation-ribbon.is-phone.is-narrow .hzk-step .m, .hz-conversation-ribbon.is-phone.is-narrow .hzk-table .th small, .hz-conversation-ribbon.is-phone.is-narrow .hzk-table .th .hzk-pill, .hz-conversation-ribbon.is-phone.is-narrow .hzk-table .tr, .hz-conversation-ribbon.is-phone.is-narrow .hzk-table .tr.head, .hz-conversation-ribbon.is-phone.is-narrow .hzk-table .tr .sub, .hz-conversation-ribbon.is-phone.is-narrow .hzk-table .foot, .hz-conversation-ribbon.is-phone.is-narrow .hzk-decision .hd .sub, .hz-conversation-ribbon.is-phone.is-narrow .hzk-decision .hd small, .hz-conversation-ribbon.is-phone.is-narrow .hzk-fact small, .hz-conversation-ribbon.is-phone.is-narrow .hzk-fact em, .hz-conversation-ribbon.is-phone.is-narrow .hzk-limit, .hz-conversation-ribbon.is-phone.is-narrow .cr-logo, .hz-conversation-ribbon.is-phone.is-narrow .cr-me, .hz-conversation-ribbon.is-phone.is-narrow .cr-sec .t small, .hz-conversation-ribbon.is-phone.is-narrow .cr-item .l1, .hz-conversation-ribbon.is-phone.is-narrow .cr-item .l2, .hz-conversation-ribbon.is-phone.is-narrow .cr-all, .hz-conversation-ribbon.is-phone.is-narrow .cr-day, .hz-conversation-ribbon.is-phone.is-narrow .cr-os { font-size: 15px; }
 </style>
 
 <div class="hz-conversation-ribbon">
@@ -400,7 +404,7 @@
     function fit() {
       var w = root.clientWidth || 1200;
       var phone = w < 600 || /[?&]phone=1/.test(location.search);
-      root.classList.toggle('is-phone', phone);
+      root.classList.toggle('is-phone', phone); root.classList.toggle('is-narrow', phone && (root.getBoundingClientRect().width || 420) < 420);
       var SW = phone ? 420 : 1200, SH = phone ? 720 : 750, s = w / SW;
       root.style.setProperty('--s', String(s));
       root.style.height = Math.round(SH * s) + 'px';
